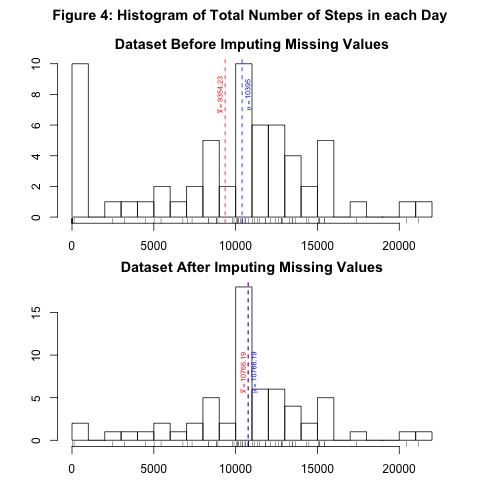
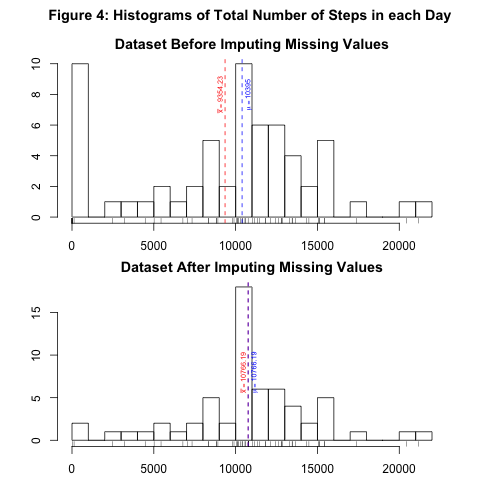
Add files via upload

Changed region(s): [[0.0893, 0.0, 0.8929, 0.0595]]

diff --git a/PeerAssessment.html b/PeerAssessment.html
@@ -325,7 +325,7 @@ max_interval
     # Add label to doted lines
     geom_text(aes(x=550, label=paste(&quot; Max. Steps =&quot;, round(max_interval$avg_steps, digits=2),  sep=&quot; &quot;), y=max_interval$avg_steps-0.1e2), colour=&quot;red&quot;, size=3) + 
 
-    geom_text(aes(x=max_interval$interval+0.3e2, label=paste(&quot; 5 min Interval =&quot;, round(max_interval$interval, digits=2),  sep=&quot; &quot;), y=100), colour=&quot;red&quot;, angle=90, size=3) + theme_classic()
+    geom_text(aes(x=max_interval$interval+0.3e2, label=paste(&quot; 5 min Interval =&quot;, round(max_interval$interval, digits=2),  sep=&quot; &quot;), y=100), colour=&quot;red&quot;, angle=90, size=3.5) + theme_classic()
 </code></pre>
 
 <p><img src="figure/g2-1.png" alt="plot of chunk g2"></p>
@@ -419,7 +419,7 @@ abline(v = activity_median_imp, col = &quot;blue&quot;, lwd = 1, lty = 2)
 text(activity_mean_imp-0.3e3, 8, bquote(bar(x) == .(activity_mean_imp)), col = &quot;red&quot;, srt = 90,cex=0.6)
 text(activity_median_imp+0.4e3, 8,  bquote(mu == .(activity_median_imp)), col = &quot;blue&quot;, srt = 90,cex=0.6)
 
-title(&quot;Figure 4: Histogram of Total Number of Steps in each Day &quot;, outer=TRUE)
+title(&quot;Figure 4: Histograms of Total Number of Steps in each Day &quot;, outer=TRUE)
 </code></pre>
 
 <p><img src="figure/unnamed-chunk-14-1.png" alt="plot of chunk unnamed-chunk-14"></p>

diff --git a/PeerAssessment.md b/PeerAssessment.md
@@ -201,7 +201,7 @@ Across all the days in the dataset, the 5-minute interval of **`835`** minutes ,
     # Add label to doted lines
     geom_text(aes(x=550, label=paste(" Max. Steps =", round(max_interval$avg_steps, digits=2),  sep=" "), y=max_interval$avg_steps-0.1e2), colour="red", size=3) + 
     
-    geom_text(aes(x=max_interval$interval+0.3e2, label=paste(" 5 min Interval =", round(max_interval$interval, digits=2),  sep=" "), y=100), colour="red", angle=90, size=3) + theme_classic()
+    geom_text(aes(x=max_interval$interval+0.3e2, label=paste(" 5 min Interval =", round(max_interval$interval, digits=2),  sep=" "), y=100), colour="red", angle=90, size=3.5) + theme_classic()
 ```
 
 ![plot of chunk g2](figure/g2-1.png)
@@ -317,7 +317,7 @@ abline(v = activity_median_imp, col = "blue", lwd = 1, lty = 2)
 text(activity_mean_imp-0.3e3, 8, bquote(bar(x) == .(activity_mean_imp)), col = "red", srt = 90,cex=0.6)
 text(activity_median_imp+0.4e3, 8,  bquote(mu == .(activity_median_imp)), col = "blue", srt = 90,cex=0.6)
 
-title("Figure 4: Histogram of Total Number of Steps in each Day ", outer=TRUE)
+title("Figure 4: Histograms of Total Number of Steps in each Day ", outer=TRUE)
 ```
 
 ![plot of chunk unnamed-chunk-14](figure/unnamed-chunk-14-1.png)
